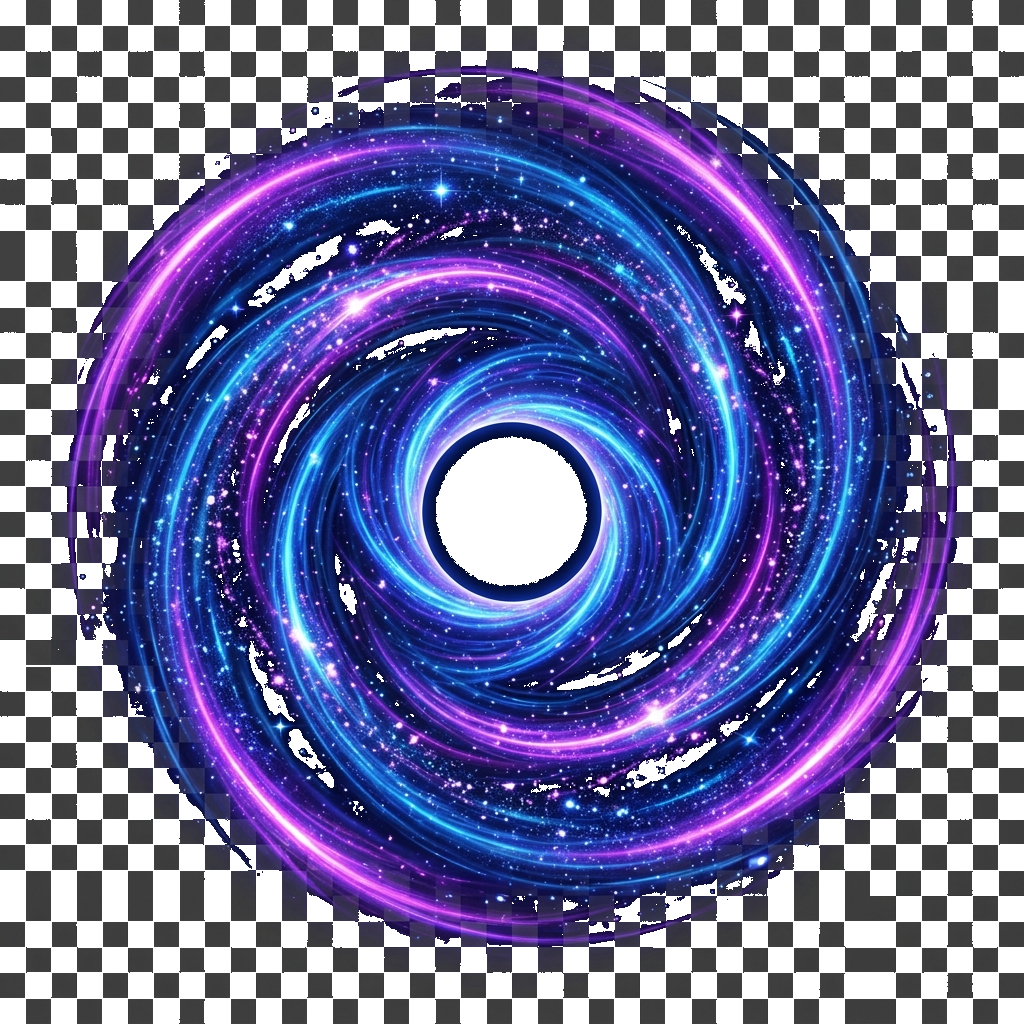
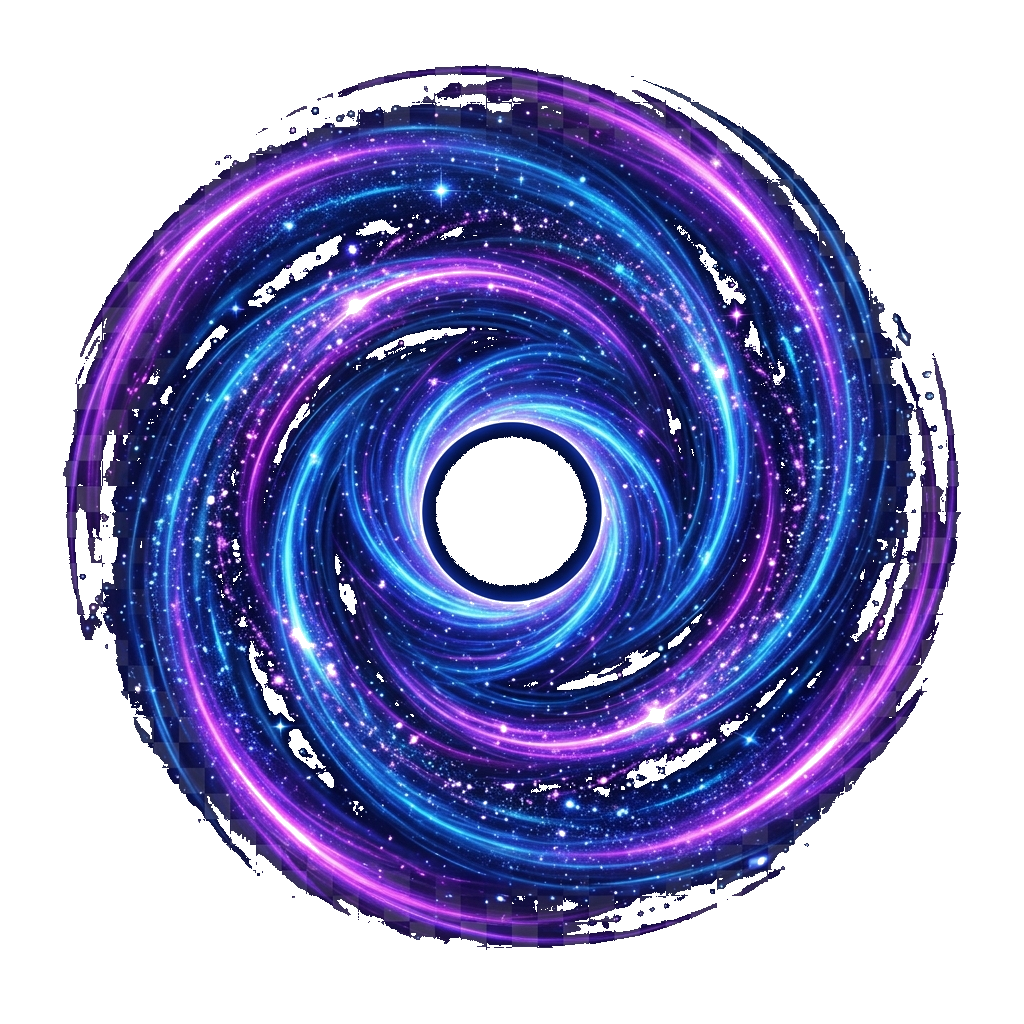
Fix: Align runtime GameManager._makeBackgroundTransparent filter with python delta logic

Changed region(s): [[0.0, 0.0, 1.0, 1.0], [0.8438, 0.5625, 0.875, 0.5938]]

diff --git a/lib/game/game_manager.dart b/lib/game/game_manager.dart
@@ -231,19 +231,14 @@ class GameManager extends ChangeNotifier {
         int g = pixels[i + 1];
         int b = pixels[i + 2];
         
-        // 1. Key out dark pixels (dark obsidian stone or singularity centre)
-        if (r < 55 && g < 55 && b < 55) {
-          pixels[i + 3] = 0; // Alpha = 0
-          continue;
-        }
-
-        // 2. Key out mock checkerboard pattern (grayscale pixels that are light/medium grey or white)
         int maxVal = math.max(r, math.max(g, b));
         int minVal = math.min(r, math.min(g, b));
-        if (maxVal - minVal < 12) {
-          if (maxVal > 50) {
-            pixels[i + 3] = 0; // Make transparent!
-          }
+        int diff = maxVal - minVal;
+
+        // Grayscale check (covers any shade of grey/white checkerboard)
+        // OR extremely dark pixels (black space / singularity core)
+        if (diff < 35 || maxVal < 35) {
+          pixels[i + 3] = 0; // Alpha = 0
         }
       }
 